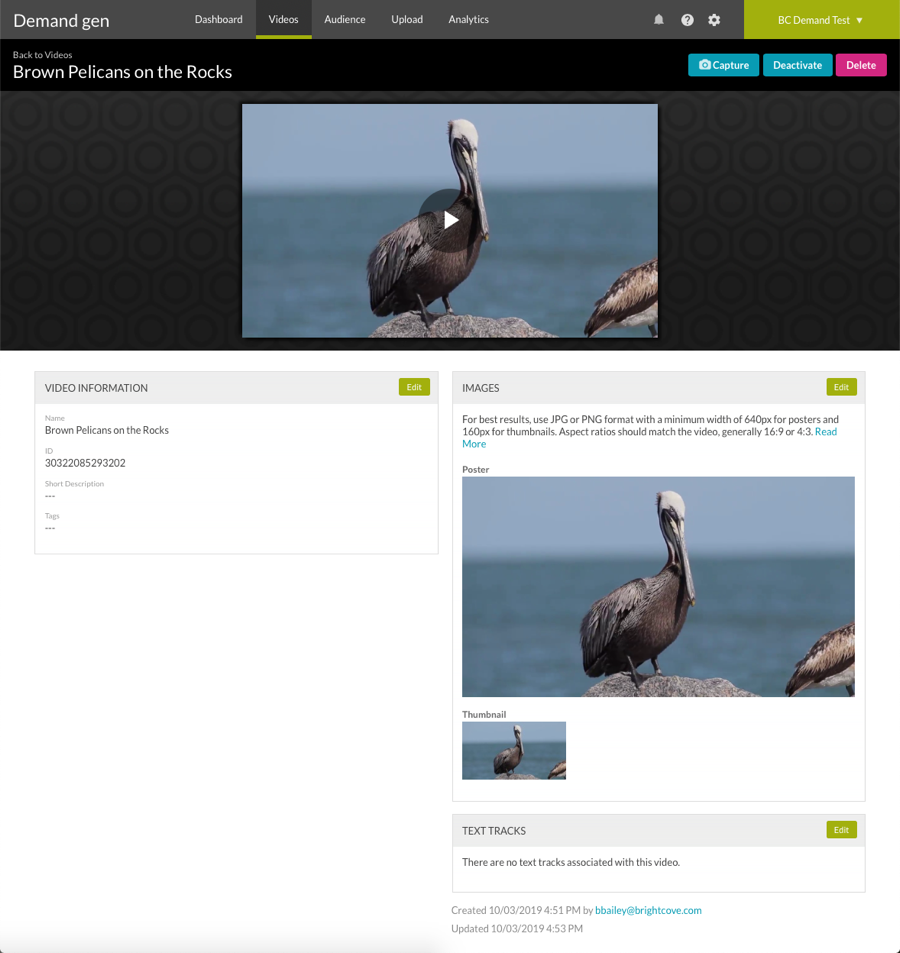
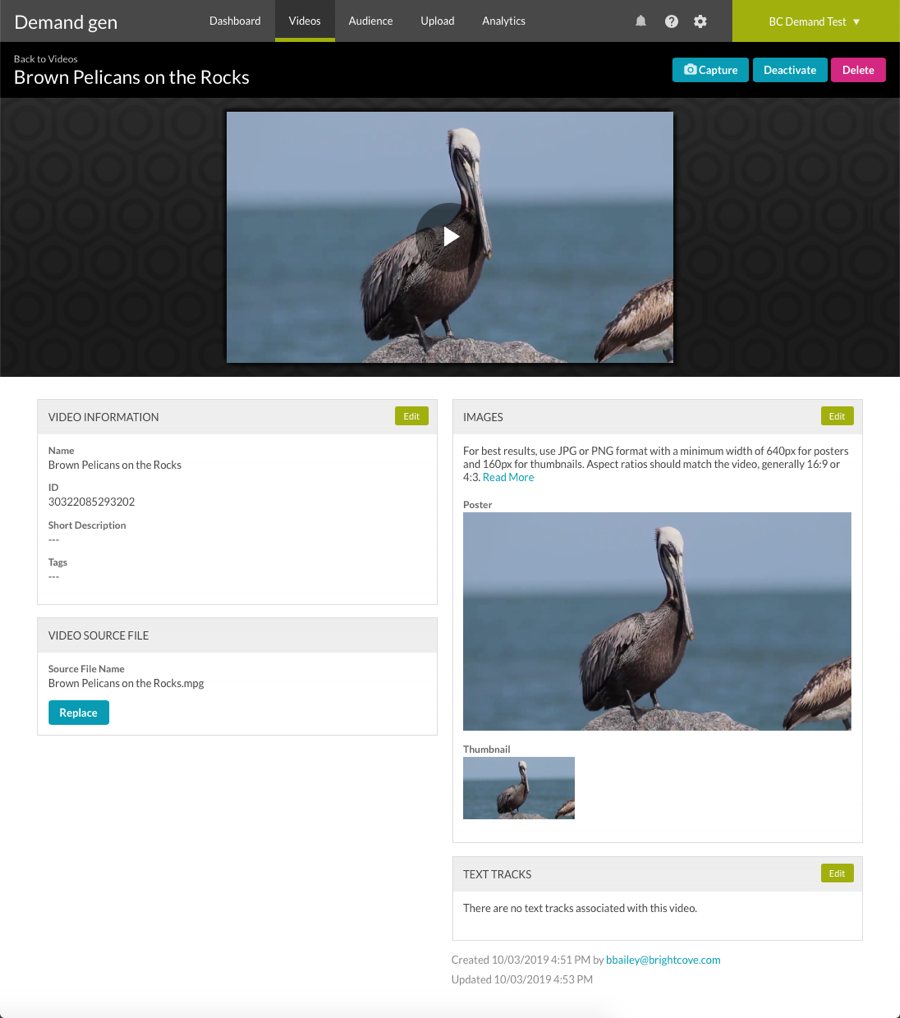
added content for replace source file

diff --git a/videos/editing-video-properties.html b/videos/editing-video-properties.html
@@ -27,6 +27,7 @@
     <ul>
       <li><a href="#videoinfo">Video Information</a></li>
       <li><a href="#images">Images</a></li>
+      <li><a href="#source_file">Video Source File</a></li>
       <li><a href="#texttracks">Text Tracks</a></li>
     </ul>
     <p>To edit the video properties, click the <strong>Edit</strong> button in the section or double-click in the section.</p>
@@ -78,6 +79,12 @@
     <h2 id="images">Images</h2>
     <p>The Images section displays the poster and thumbnail images for the video. Poster and thumbnail images are created automatically by taking a snapshot from the source video at the midway point. If you don't like the default images that were captured, you can <a href="capturing-poster-and-thumbnail-images.html">capture new images</a> or <a href="uploading-poster-and-thumbnail-images.html">upload other images</a> to use as the poster and thumbnail.</p>
     <figure class="bcls-figure"><img class="bcls-image--no-border" alt="" src="/demand-gen/images/videos/video-properties-images.png" /></figure>
+  </section>
+  <section class="bcls-section">
+    <h2 id="source_file">Video Source File</h2>
+    <p>The Video Source File section can be used to replace the video source file. This is useful when the source file has been edited after it was uploaded. Replacing the source file will retain all existing video metadata and  analytics that have been captured.</p>
+    <figure class="bcls-figure"><img class="bcls-image--no-border" alt="" src="/demand-gen/images/videos/video-properties-replace-source.png" /></figure>
+    <p>To replace the source file, click <strong>Replace </strong> and browse and select the new source file.</p>
   </section>
   <section class="bcls-section">
     <h2 id="texttracks">Text Tracks</h2>
